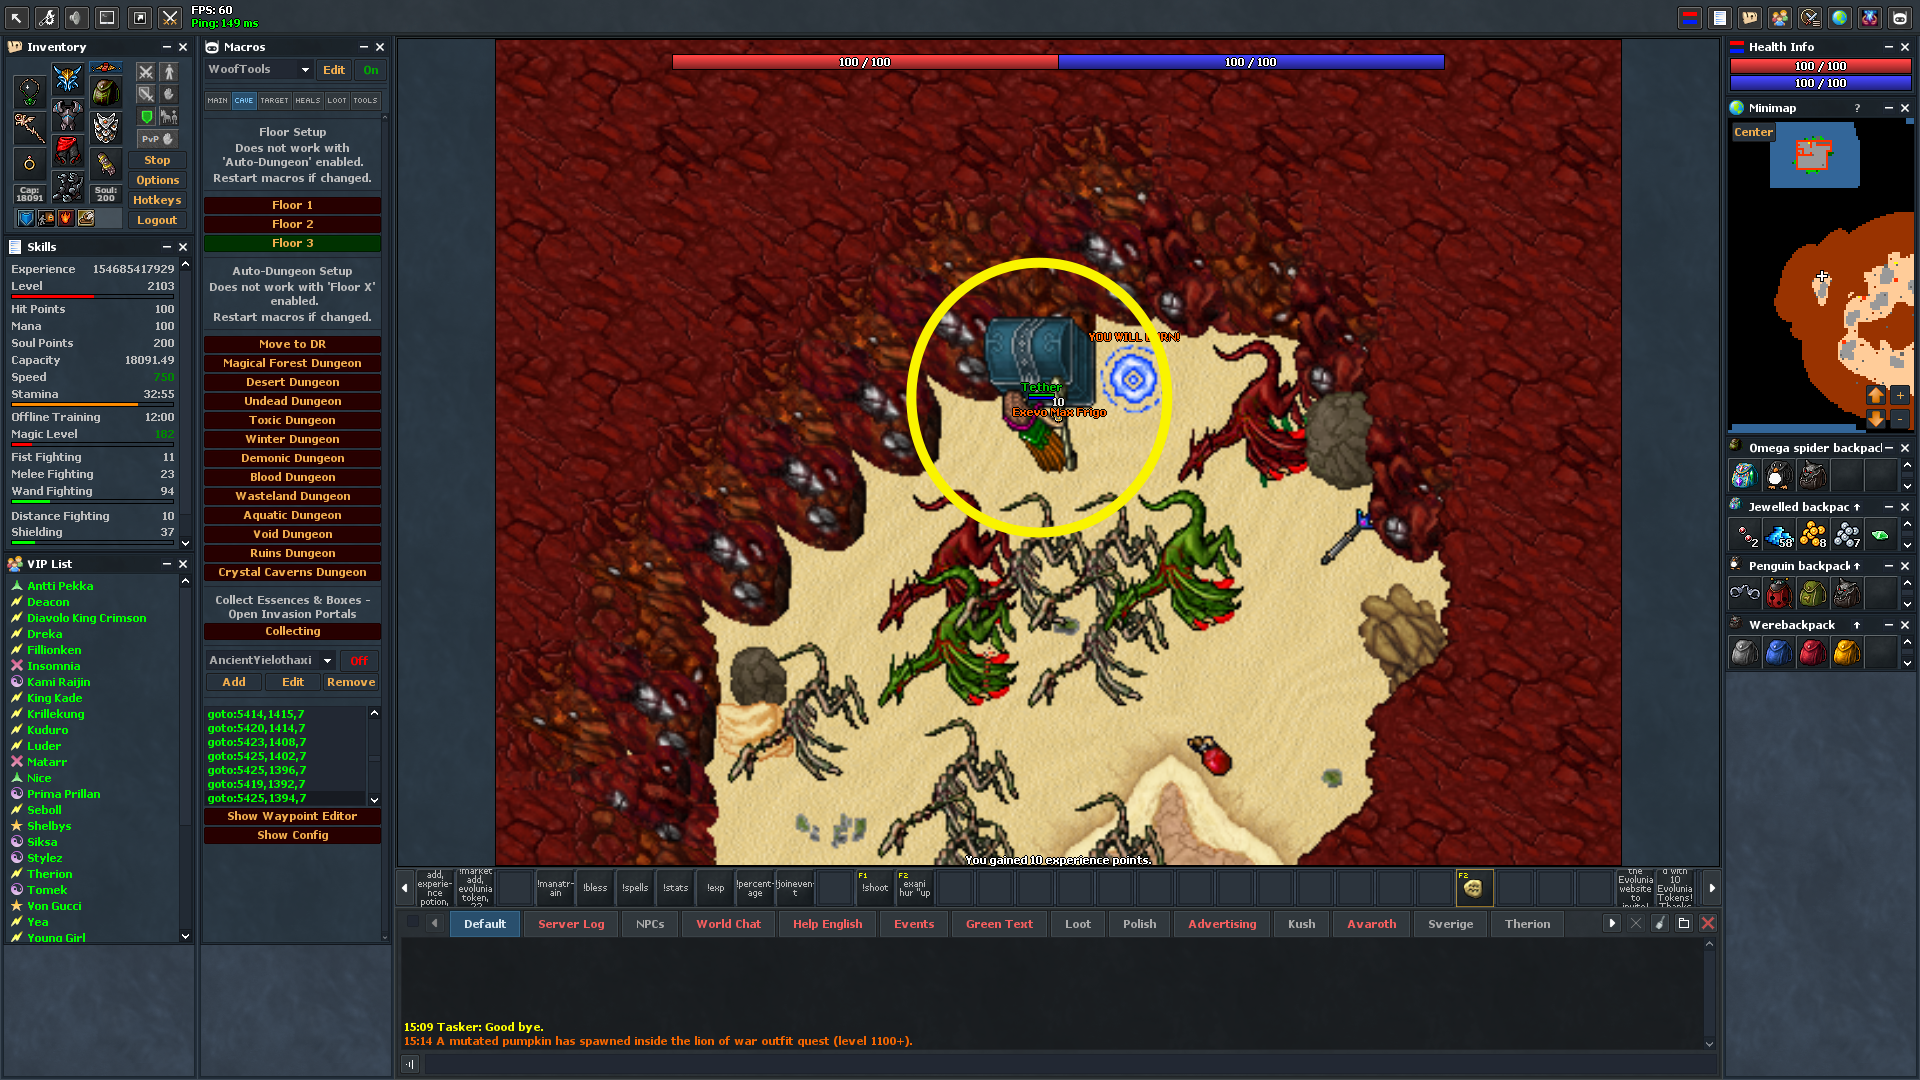
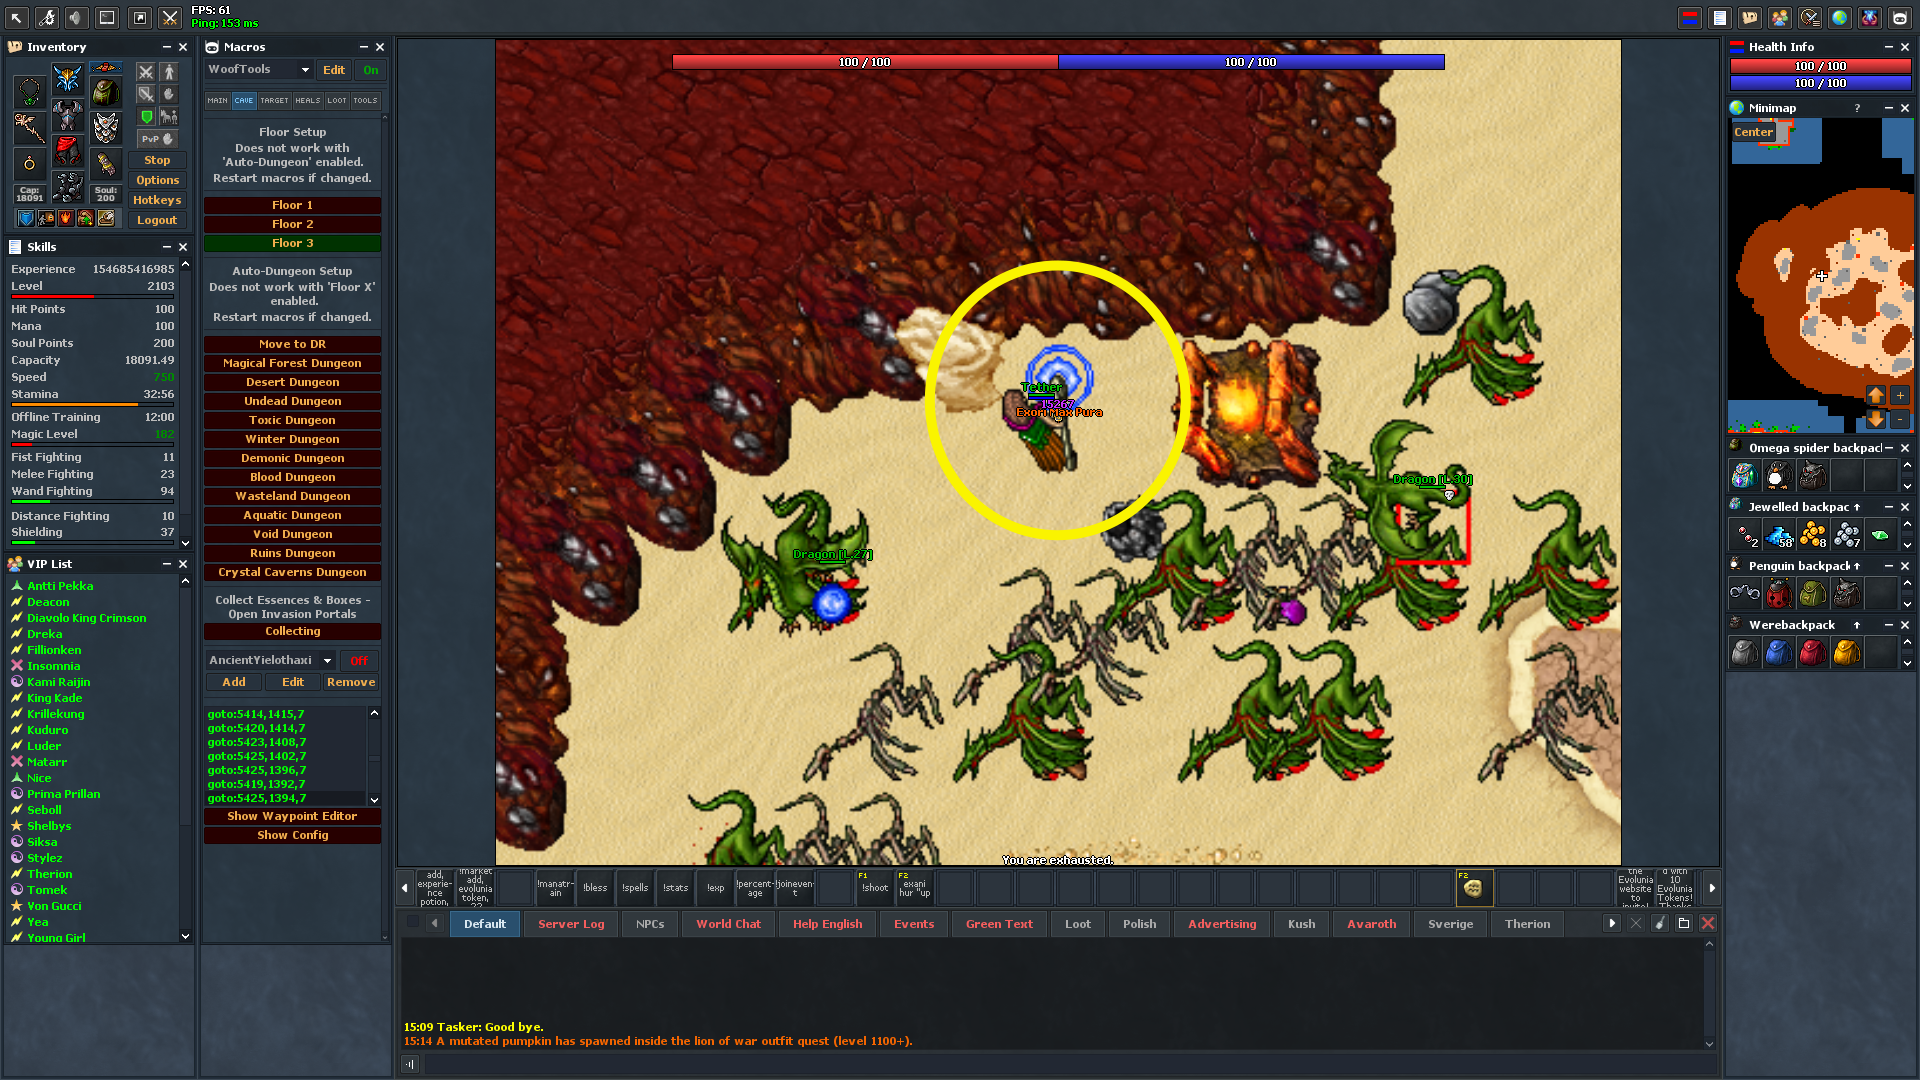
Update Coryms/Dragons -- Add Roaring Lions

Changed region(s): [[0.25, 0.0306, 0.8438, 0.825], [0.875, 0.0917, 1.0, 0.3972], [0.0312, 0.1833, 0.0625, 0.2139]]

diff --git a/Dragons/README.md b/Dragons/README.md
@@ -1,8 +1,8 @@
 ### Dragons
-Reward: ExampleRewardItem
+**Reward:** ExampleRewardItem
 
 |Description|Picture|
 |:---:|:---:|
-|**Step 1:** Make your way through the Dragon spawn to the teleport mentioned below.|![Step 1](0.png)|
-|**Step 2:** Go into the teleport. You'll find some Dragons and Dragon Lords.|![Step 2](1.png)|
-|**Step 3:** Continue to move through the cave until you reach the reward chest.|![Step 3](2.png)|
+|**Step 1:** Make your way **North West** through the Dragon spawn to the **teleport** mentioned below.|![Step 1](1.png)|
+|**Step 2:** Go into the **teleport**. You'll find some Dragons and Dragon Lords.|![Step 2](2.png)|
+|**Step 3:** Continue **North** to move through the cave until you reach the reward chest.|![Step 3](3.png)|

diff --git a/Coryms/README.md b/Coryms/README.md
@@ -1,8 +1,8 @@
 ### Coryms
-Reward: ExampleRewardItem
+**Reward:** ExampleRewardItem
 
 |Description|Picture|
 |:---:|:---:|
-|**Step 1:** Make your way through the Corym spawn to the staircase mentioned below.|![Step 1](0.png)|
-|**Step 2:** Go down the staircase. You may find a Spider boss down there.|![Step 2](1.png)|
-|**Step 3:** Continue to move through the cave until you reach the reward chest.|![Step 3](2.png)|
+|**Step 1:** Make your way **South East** through the Corym spawn to the **staircase** mentioned below.|![Step 1](1.png)|
+|**Step 2:** Go **down the staircase**. You may find a Spider boss down there.|![Step 2](2.png)|
+|**Step 3:** Continue **North** to move through the cave until you reach the reward chest.|![Step 3](3.png)|

diff --git a/Roaring Lions/README.md b/Roaring Lions/README.md
@@ -1,0 +1,11 @@
+### Roaring Lions
+**Reward:** Ceremonial Garb Outfit
+
+|Description|Picture|
+|:---:|:---:|
+|**Step 1:** Move **North** through the spawn to find the **first lever**.|![Step 1](1.png)|
+|**Step 2:** Use the **first lever** to remove the **first stone**.|![Step 2](2.png)|
+|**Step 3:** Move **South West** through the spawn to find the **second lever**.|![Step 3](3.png)|
+|**Step 1:** Use the **second lever** to remove the **second stone**.|![Step 4](4.png)|
+|**Step 2:** Move **North** through the spawn to find the **unblocked path** leading to the reward chest.|![Step 5](5.png)|
+|**Step 3:** Continue **West** down the **unblocked path** and collect the **Ceremonial Garb Outfit** from the reward chest.|![Step 6](6.png)|
